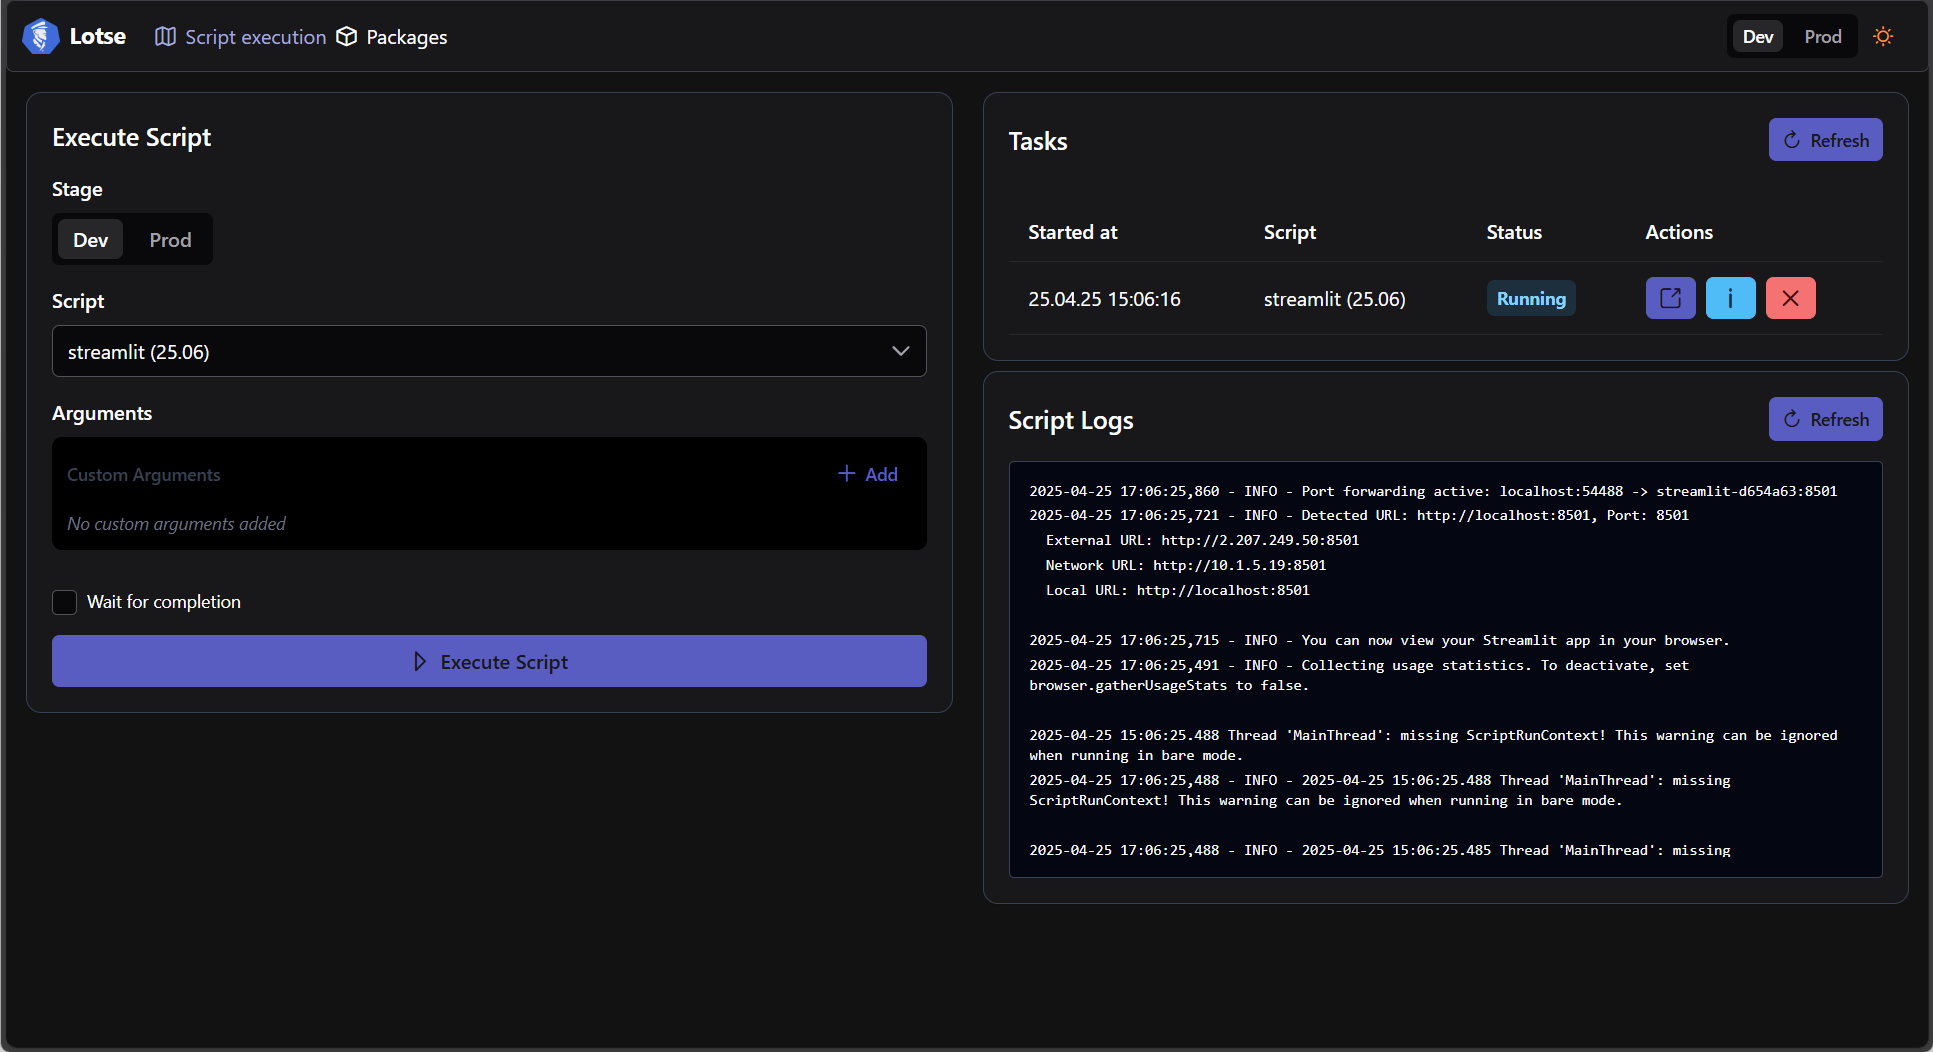
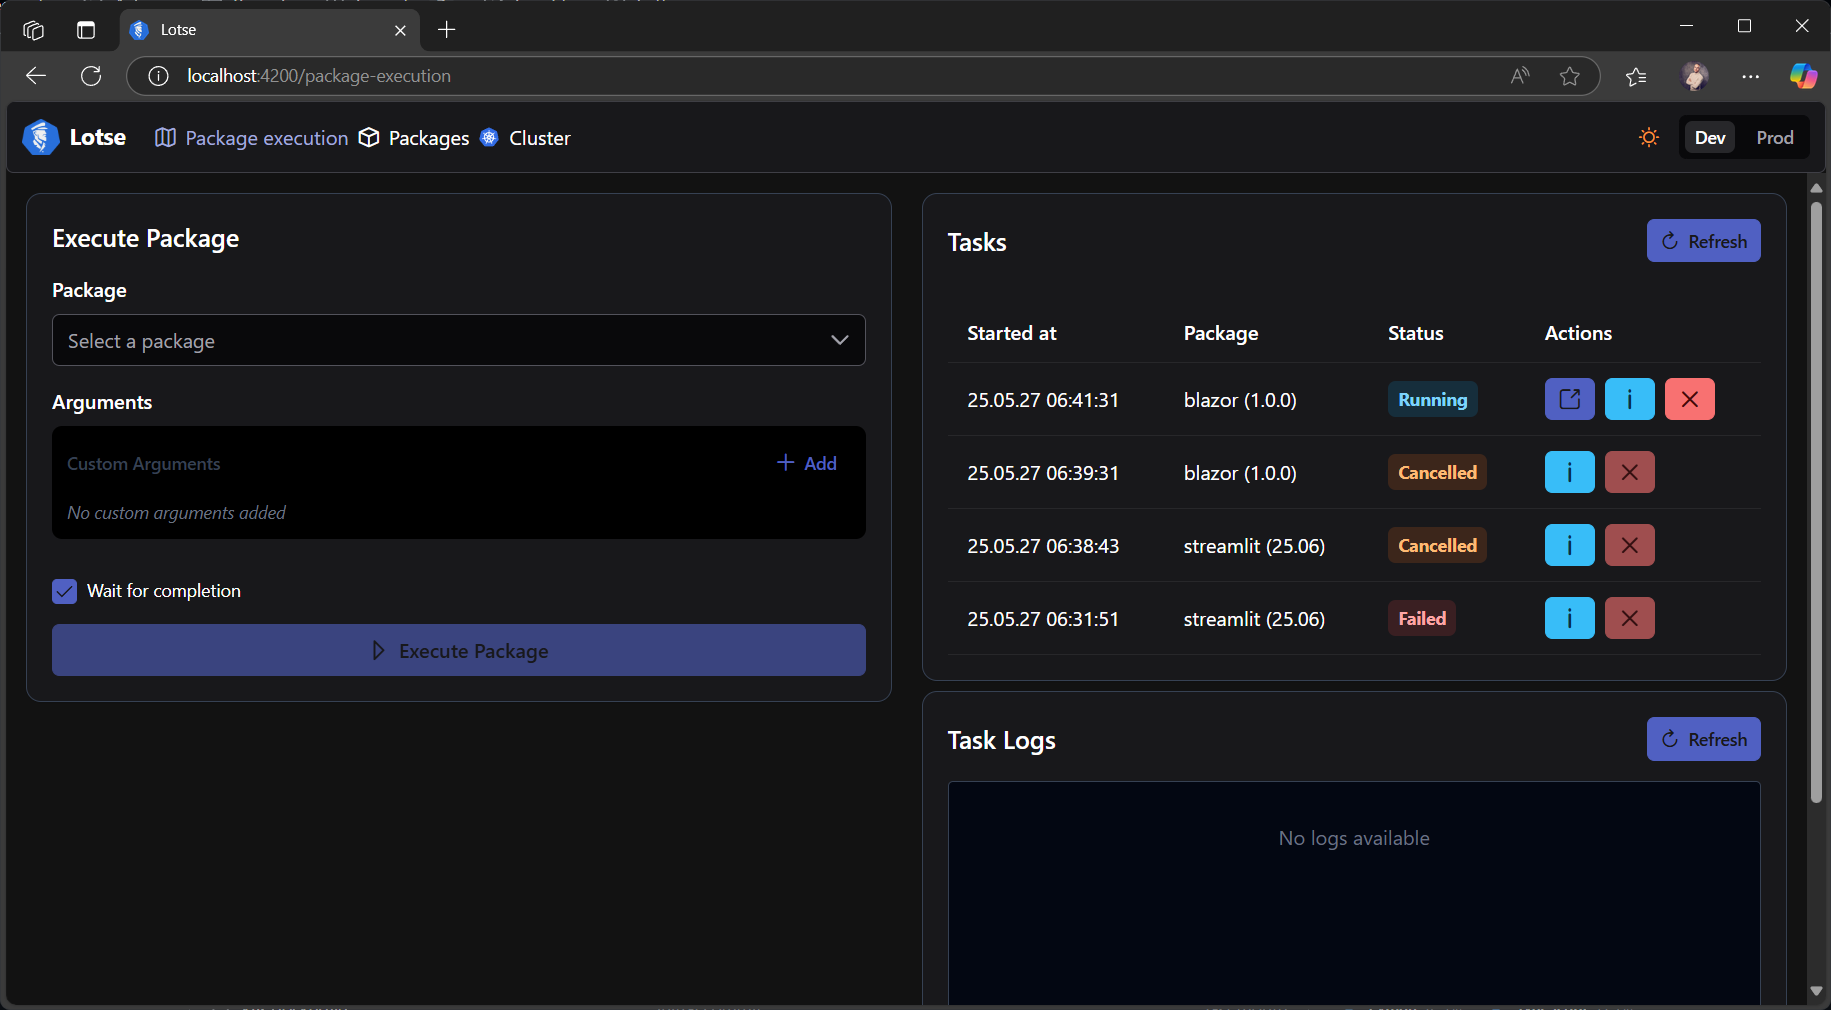
add gifs and update screenshots

diff --git a/SCREENSHOTS.md b/SCREENSHOTS.md
@@ -1,0 +1,42 @@
+# 📸 Lotse Screenshots & Demonstrations
+
+This document contains screenshots and animated demonstrations of the Lotse platform's features and functionality.
+
+## Screenshots
+
+### Application Overview
+![Overview](assets/overview.png)
+*Main overview*
+
+### Package View
+![Package Details](assets/package_detail.png)
+*Detailed view of a package with running instances*
+
+![Package Environment Variables](assets/package_env.png)
+*Environment variables of a package*
+
+![Package Arguments](assets/package_args.png)
+*Arguments of a package*
+
+### Kubernetes Integration
+![Cluster Management](assets/cluster.png)
+*Kubernetes cluster view*
+
+![Namespace Management](assets/namespace.png)
+*Namespace view*
+
+## Demonstrations
+
+### Python Runtime
+![Python Installation Process](assets/python_installation.gif)
+*Automatic Python environment setup and dependency installation*
+
+![Python Cache Management](assets/python_cache.gif)
+*Python package cache for faster startup*
+
+### Execution Workflows
+![Binary Execution](assets/binary_execution.gif)
+*Demonstration of binary package execution process*
+
+![Cluster Management](assets/cluster.gif)
+*Walkthrough of cluster UI*

diff --git a/README.md b/README.md
@@ -30,11 +30,11 @@ It was built for people who do not want to write any YAML or Dockerfiles, but st
 
 - 🔌 **Proxy Support**: Automatic proxy configuration
 
-## 📸 Screenshots
+## 📸 Screenshots & Demonstrations
 
-![Overview](assets/Overview.png)
+![Overview](assets/overview.png)
 
-![Details](assets/Details.png)
+Check out our [Screenshots and Demonstrations](SCREENSHOTS.md) to see Lotse in action
 
 ## 🔧 Technical Stack
 
